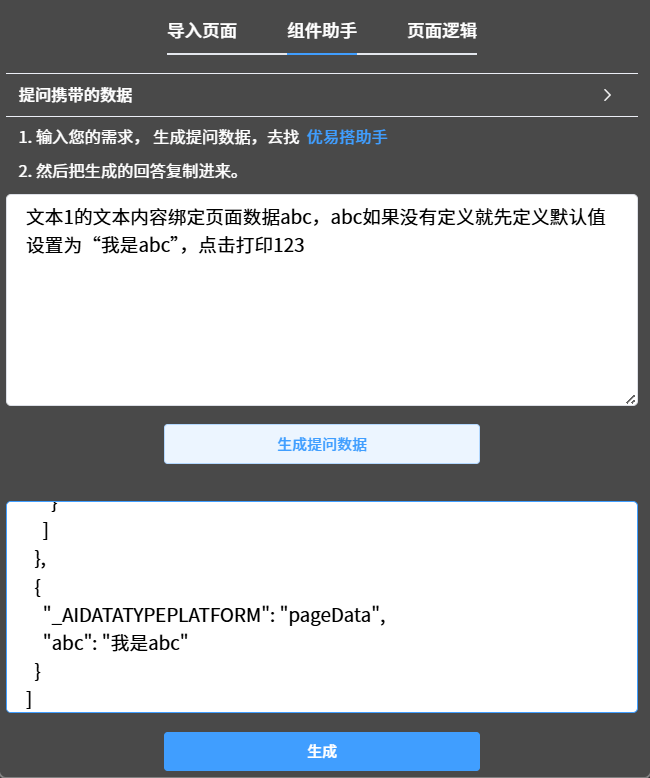
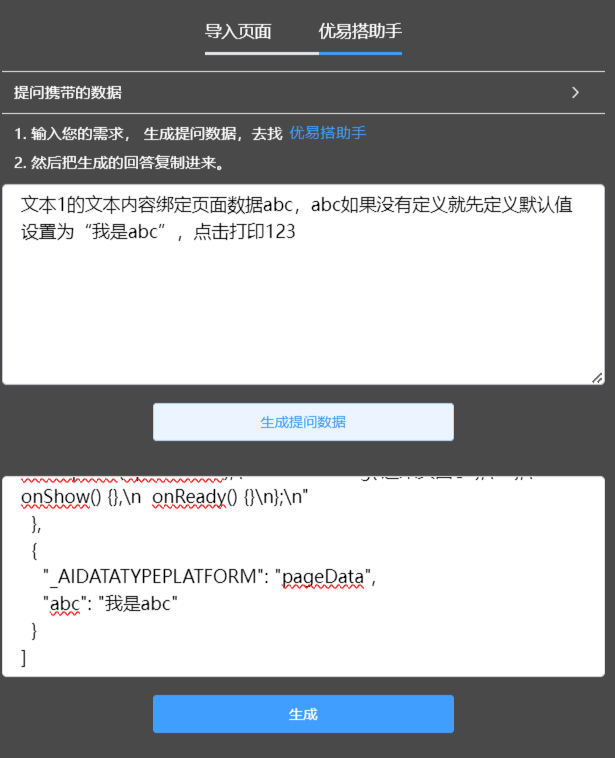
优化

Changed region(s): [[0.0, 0.091, 0.9886, 1.0], [0.0618, 0.7282, 0.587, 0.8496], [0.2472, 0.0303, 0.7415, 0.091]]

diff --git a/docs/compoents/bind-data.md b/docs/compoents/bind-data.md
@@ -183,15 +183,13 @@ text === "张三" ? "#fff" : "#000";
 
 ![](/public/data/事件演示结果.png){ width=500 }
 
----
-
 ## 还有没有更简单的方法？进行上面的操作
 
-有的，以上操作其实都可通过 AI 助手中的组件助手来添加。
+有的，以上操作其实都可通过 AI 助手中的优易搭助手来添加。
 
 ### 示例：
 
-1. 打开 AI 助手，选择组件助手，输入需求。
+1. 打开 AI 助手，选择优易搭助手，输入需求。
 
 ![](/public/data/组件助手演示绑定属性.png){ width=500 }
 

diff --git a/docs/template/start.md b/docs/template/start.md
@@ -12,5 +12,3 @@ outline: deep
 2. 页面模板
 3. 应用模板
 4. 自定义组件
-
-##### 🎨 分享你的模板，点亮别人的页面！你的作品，也能成为大家的工具箱 💡
